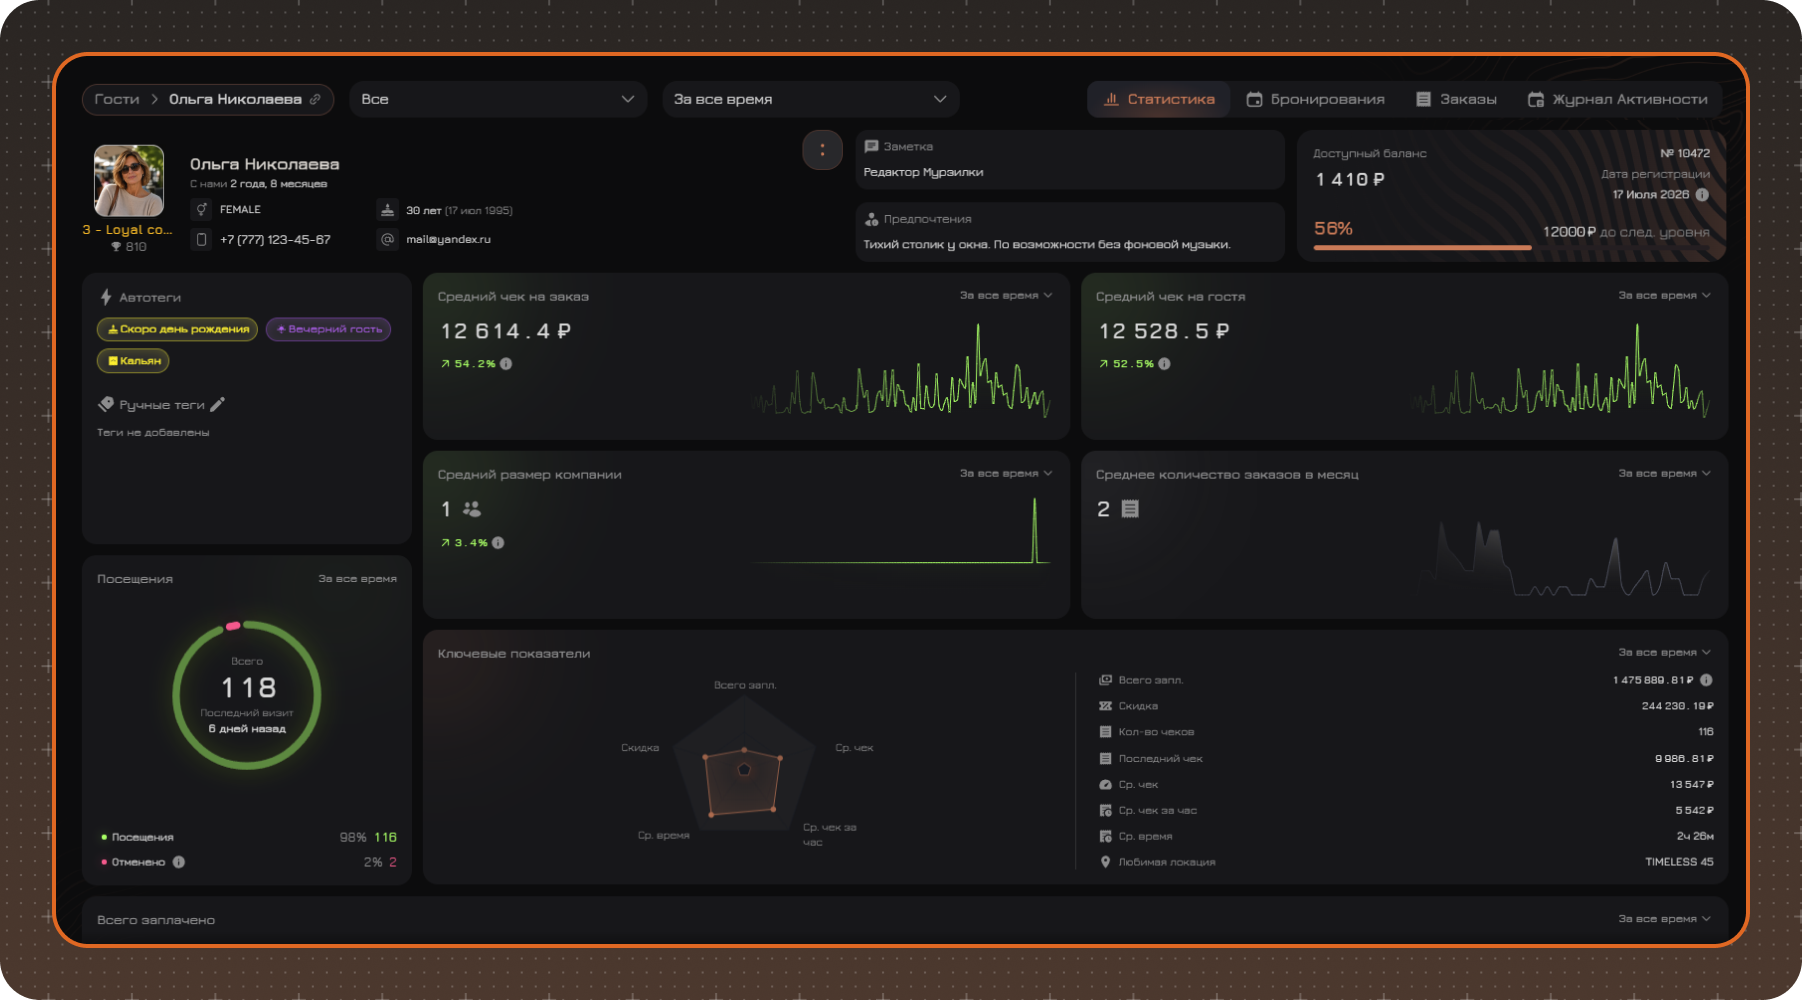
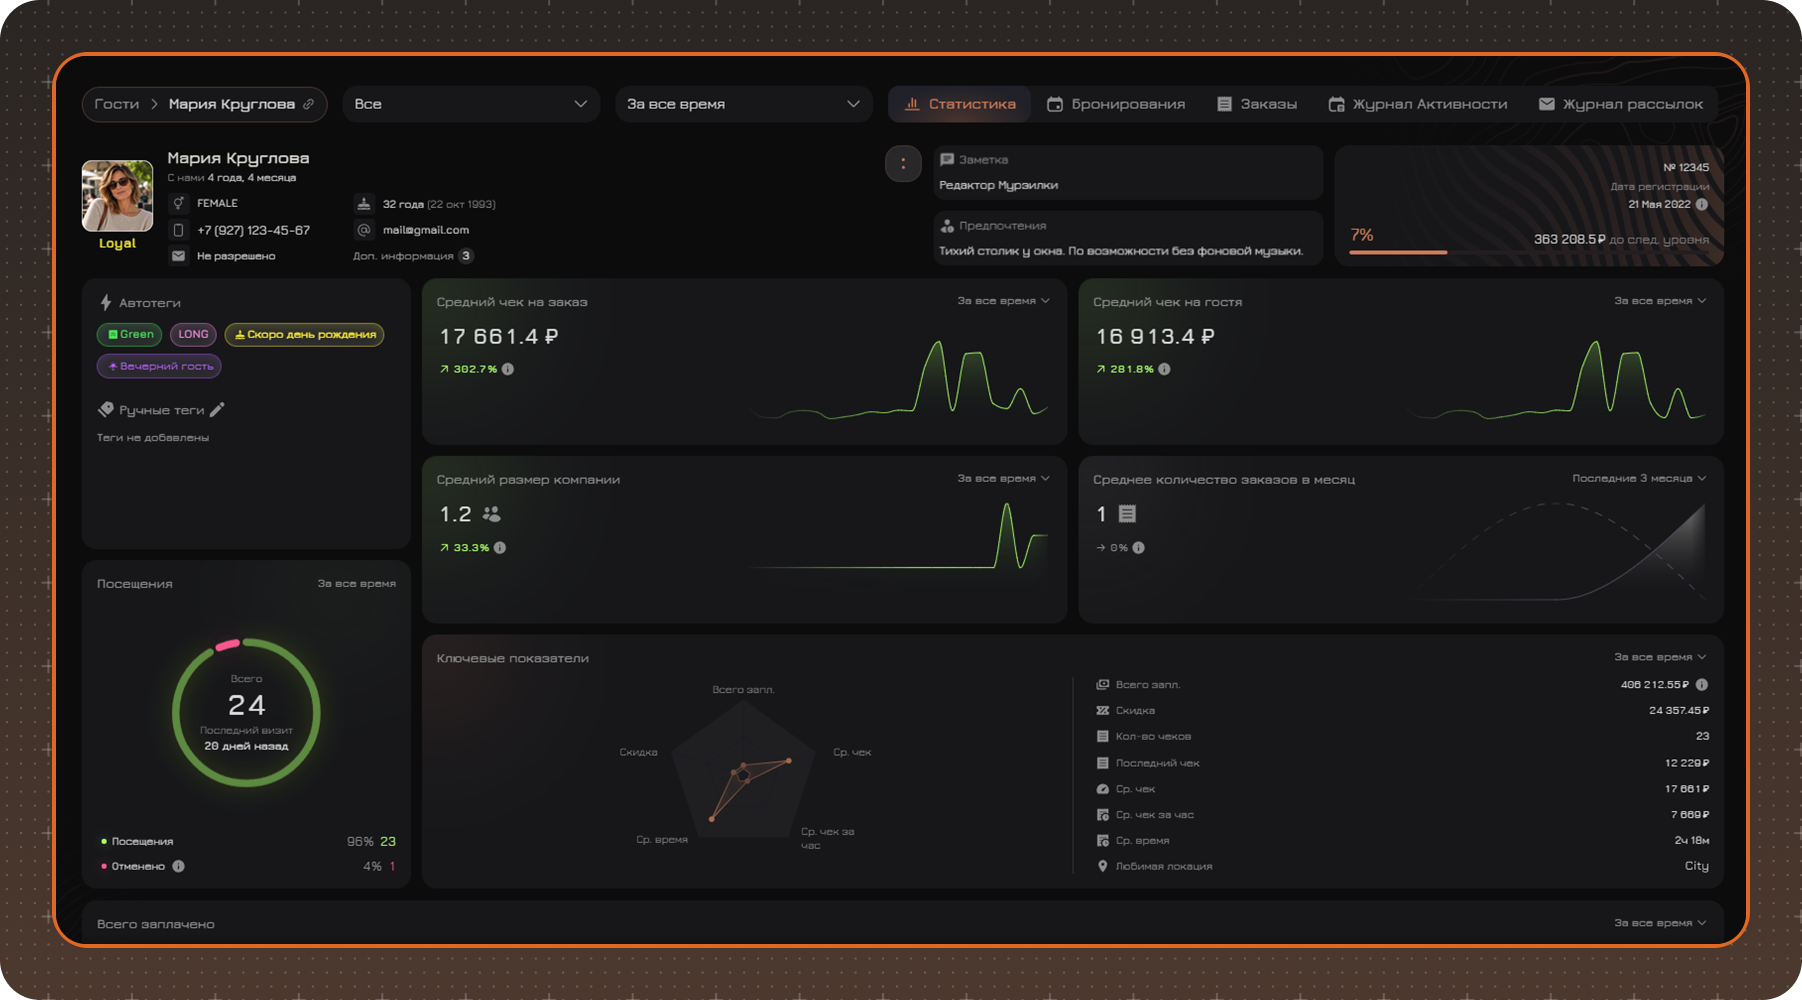
Guests: карточка гостя - новые скриншоты и пятая вкладка (CIMP-314) (#100)

diff --git a/content/ru/marketing/guests/3.guests-statistics.md b/content/ru/marketing/guests/3.guests-statistics.md
@@ -30,14 +30,13 @@ updatedAt: 2026-08-19
 
 [[delimiter rows=1]]
 
-Карточка гостя состоит из четырех вкладок:
+Карточка гостя состоит из пяти вкладок:
 
 ✔ Статистика  
 ✔ Бронирования  
 ✔ Заказы  
-✔ Журнал активности
-
-> **Примечание.** При небольшой ширине окна названия вкладок могут заменяться значками. 
+✔ Журнал активности  
+✔ Журнал рассылок
 
 
 
@@ -125,7 +124,7 @@ updatedAt: 2026-08-19
 
 [[delimiter rows=1]]
 
-В карточке гостя доступны отдельные поля **Заметка** и **Предпочтения**.
+В шапке карточки гостя доступны отдельные поля **Заметка** и **Предпочтения**.
 
 ✔ **Заметка** — используется для хранения общей информации о госте. Заметку можно просмотреть в карточке гостя или в списке гостей, если включить отображение соответствующей колонки.
 
